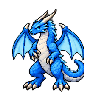
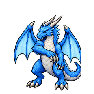
Redraw dragon claw with overhead windup and larger downstroke

diff --git a/design/enemies/dragon_frost/attack_claw/PROMPT.md b/design/enemies/dragon_frost/attack_claw/PROMPT.md
@@ -1,1 +1,1 @@
-Built-in image_gen. Base: ../attack/dragon_frost_1.png. Generate entire coherent ten-frame5x2 transparent sprite sheet of same blue frost dragon, small blue eyes and original detailed pixel-art. Frame1 normal,2 raising,3 raising,4 highest raising,5 downstroke begins,6 downstroke across chest,7 lowest downstroke,8 return early,9 return middle,10 return late near normal. Both forearms visible throughout, including frame7 continuous shoulder-elbow-wrist-claws. Whole character regenerated to match original reference face and proportions; Fresh full-body generation from original reference. SCREEN-LEFT forearm attacks throughout, idle SCREEN-RIGHT arm stays beside thigh. Frame8 uses same full-body bent-elbow pose as frame2 to preserve shoulder continuity, then9-10 settle to side. No rotated/scaled arm patches; grounded hindfeet, stable wings and tail. No fire, weapons, slash effects or pasted body parts. Export ten94x94 transparent PNGs in numeric order. Correction: planted feet baseline y91 in every frame, stable hips and head, original narrow blue-eyed face, frame10 is distinct late recovery, frame1 completes return. Preview frame delays(ms): 180,120,120,140,80,80,80,120,120,120.
+Built-in image_gen. Base: ../attack/dragon_frost_1.png. Generate entire coherent ten-frame5x2 transparent sprite sheet of same blue frost dragon, small blue eyes and original detailed pixel-art. Frame1 normal,2 raising,3 raising,4 highest raising,5 downstroke begins,6 downstroke across chest,7 lowest downstroke,8 return early,9 return middle,10 return late near normal. Both forearms visible throughout, including frame7 continuous shoulder-elbow-wrist-claws. Whole character regenerated to match original reference face and proportions; Fresh whole-body overhead claw sequence. Active SCREEN-LEFT arm lifts clearly above head at4, descends across chest5-6 and belly7, distinct return8-10. Idle SCREEN-RIGHT arm visible throughout. No reused full-body poses or rotated limb patches; grounded hindfeet, stable wings and tail. No fire, weapons, slash effects or pasted body parts. Export ten94x94 transparent PNGs in numeric order. Correction: planted feet baseline y91 in every frame, stable hips and head, original narrow blue-eyed face, frame10 is distinct late recovery, frame1 completes return. Preview frame delays(ms): 180,120,120,140,80,80,80,120,120,120.
